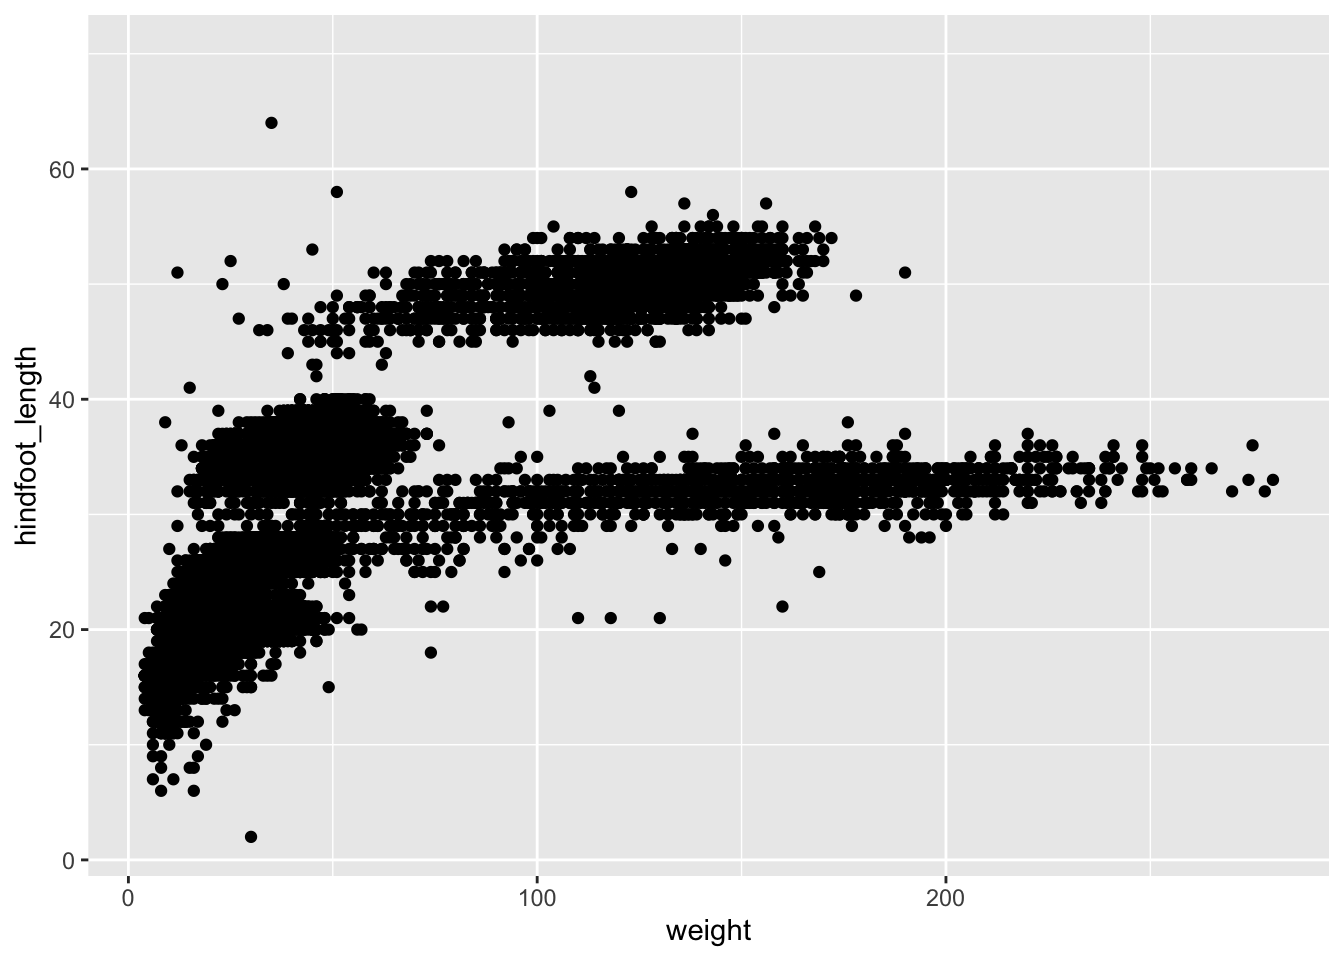
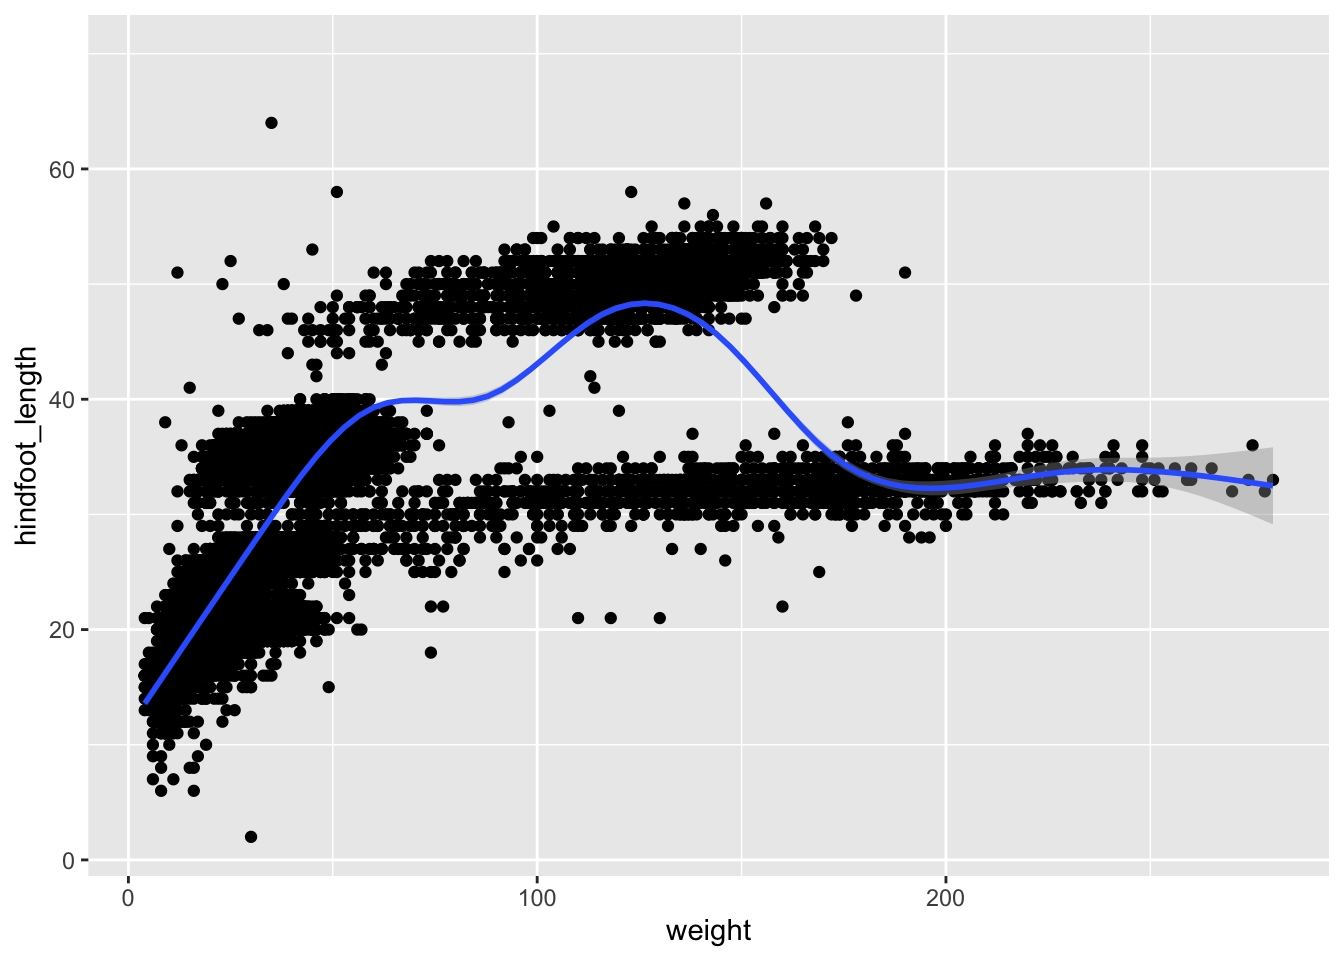
updated visualisation

diff --git a/03-data_visualisation.html b/03-data_visualisation.html
@@ -103,67 +103,41 @@ $(function () {
 
 <style type="text/css">code{white-space: pre;}</style>
 <style type="text/css" data-origin="pandoc">
-a.sourceLine { display: inline-block; line-height: 1.25; }
-a.sourceLine { pointer-events: none; color: inherit; text-decoration: inherit; }
-a.sourceLine:empty { height: 1.2em; }
-.sourceCode { overflow: visible; }
-code.sourceCode { white-space: pre; position: relative; }
-div.sourceCode { margin: 1em 0; }
-pre.sourceCode { margin: 0; }
-@media screen {
-div.sourceCode { overflow: auto; }
-}
-@media print {
-code.sourceCode { white-space: pre-wrap; }
-a.sourceLine { text-indent: -1em; padding-left: 1em; }
-}
-pre.numberSource a.sourceLine
-  { position: relative; left: -4em; }
-pre.numberSource a.sourceLine::before
-  { content: attr(data-line-number);
-    position: relative; left: -1em; text-align: right; vertical-align: baseline;
-    border: none; pointer-events: all; display: inline-block;
-    -webkit-touch-callout: none; -webkit-user-select: none;
-    -khtml-user-select: none; -moz-user-select: none;
-    -ms-user-select: none; user-select: none;
-    padding: 0 4px; width: 4em;
-    color: #aaaaaa;
-  }
-pre.numberSource { margin-left: 3em; border-left: 1px solid #aaaaaa;  padding-left: 4px; }
-div.sourceCode
-  {  }
-@media screen {
-a.sourceLine::before { text-decoration: underline; }
-}
-code span.al { color: #ff0000; font-weight: bold; } /* Alert */
-code span.an { color: #60a0b0; font-weight: bold; font-style: italic; } /* Annotation */
-code span.at { color: #7d9029; } /* Attribute */
-code span.bn { color: #40a070; } /* BaseN */
-code span.bu { } /* BuiltIn */
-code span.cf { color: #007020; font-weight: bold; } /* ControlFlow */
-code span.ch { color: #4070a0; } /* Char */
-code span.cn { color: #880000; } /* Constant */
-code span.co { color: #60a0b0; font-style: italic; } /* Comment */
-code span.cv { color: #60a0b0; font-weight: bold; font-style: italic; } /* CommentVar */
-code span.do { color: #ba2121; font-style: italic; } /* Documentation */
-code span.dt { color: #902000; } /* DataType */
-code span.dv { color: #40a070; } /* DecVal */
-code span.er { color: #ff0000; font-weight: bold; } /* Error */
-code span.ex { } /* Extension */
-code span.fl { color: #40a070; } /* Float */
-code span.fu { color: #06287e; } /* Function */
-code span.im { } /* Import */
-code span.in { color: #60a0b0; font-weight: bold; font-style: italic; } /* Information */
-code span.kw { color: #007020; font-weight: bold; } /* Keyword */
-code span.op { color: #666666; } /* Operator */
-code span.ot { color: #007020; } /* Other */
-code span.pp { color: #bc7a00; } /* Preprocessor */
-code span.sc { color: #4070a0; } /* SpecialChar */
-code span.ss { color: #bb6688; } /* SpecialString */
-code span.st { color: #4070a0; } /* String */
-code span.va { color: #19177c; } /* Variable */
-code span.vs { color: #4070a0; } /* VerbatimString */
-code span.wa { color: #60a0b0; font-weight: bold; font-style: italic; } /* Warning */
+div.sourceCode { overflow-x: auto; }
+table.sourceCode, tr.sourceCode, td.lineNumbers, td.sourceCode {
+  margin: 0; padding: 0; vertical-align: baseline; border: none; }
+table.sourceCode { width: 100%; line-height: 100%; }
+td.lineNumbers { text-align: right; padding-right: 4px; padding-left: 4px; color: #aaaaaa; border-right: 1px solid #aaaaaa; }
+td.sourceCode { padding-left: 5px; }
+code > span.kw { color: #007020; font-weight: bold; } /* Keyword */
+code > span.dt { color: #902000; } /* DataType */
+code > span.dv { color: #40a070; } /* DecVal */
+code > span.bn { color: #40a070; } /* BaseN */
+code > span.fl { color: #40a070; } /* Float */
+code > span.ch { color: #4070a0; } /* Char */
+code > span.st { color: #4070a0; } /* String */
+code > span.co { color: #60a0b0; font-style: italic; } /* Comment */
+code > span.ot { color: #007020; } /* Other */
+code > span.al { color: #ff0000; font-weight: bold; } /* Alert */
+code > span.fu { color: #06287e; } /* Function */
+code > span.er { color: #ff0000; font-weight: bold; } /* Error */
+code > span.wa { color: #60a0b0; font-weight: bold; font-style: italic; } /* Warning */
+code > span.cn { color: #880000; } /* Constant */
+code > span.sc { color: #4070a0; } /* SpecialChar */
+code > span.vs { color: #4070a0; } /* VerbatimString */
+code > span.ss { color: #bb6688; } /* SpecialString */
+code > span.im { } /* Import */
+code > span.va { color: #19177c; } /* Variable */
+code > span.cf { color: #007020; font-weight: bold; } /* ControlFlow */
+code > span.op { color: #666666; } /* Operator */
+code > span.bu { } /* BuiltIn */
+code > span.ex { } /* Extension */
+code > span.pp { color: #bc7a00; } /* Preprocessor */
+code > span.at { color: #7d9029; } /* Attribute */
+code > span.do { color: #ba2121; font-style: italic; } /* Documentation */
+code > span.an { color: #60a0b0; font-weight: bold; font-style: italic; } /* Annotation */
+code > span.cv { color: #60a0b0; font-weight: bold; font-style: italic; } /* CommentVar */
+code > span.in { color: #60a0b0; font-weight: bold; font-style: italic; } /* Information */
 
 </style>
 <script>
@@ -565,7 +539,7 @@ div.tocify {
 <div id="visualising-data-in-r" class="section level1">
 <h1>Visualising data in R</h1>
 <p><img src="img/ggplot2.png" width="50"/></p>
-<p>After inspecting the <code>surveys</code> dataset in R, the data looks tidy and we are happy with its format, so let us start understanding better our data by visualising it. <strong><code>ggplot2</code></strong> is the visualisation package in <code>tidyverse</code> and we will be using this to create some plots. <code>ggplot2</code> is a very popular package used for plotting mainly due to its simple way to create plots from tabular data.</p>
+<p>Visualising is probably one of the most satisfying parts of doing data analysis, after all most people probably like a nice graph! Thankfully tidyverse makes this very easy for us, using the <strong><code>ggplot2</code></strong> package. We will be using this package to create some plots. <code>ggplot2</code> is a very popular package used for plotting mainly due to its simple, modular way to create plots from tabular data.</p>
 <p>To create a plot, we will use the following basic template.</p>
 <pre><code>ggplot(data = &lt;DATA&gt;, mapping = aes(&lt;MAPPINGS&gt;)) +  &lt;GEOM_FUNCTION&gt;()</code></pre>
 <p>As you can see there are 3 main elements that you need to create a plot:</p>
@@ -579,55 +553,53 @@ div.tocify {
 <li><strong>geom_function</strong>: This specifies the type of plot would you like to plot. The greatest advantage of this is that you can easily change the plot type by just changing the geom_function and keeping everything else the same. You can see a whole list of plots that you can plot <a href="https://ggplot2.tidyverse.org/reference/index.html#section-layer-geoms">here</a>.</li>
 </ul>
 <p>Let us practice this on our <code>surveys</code> dataset. We would like to create a scatter plot with <code>weight</code> on the x-axis, <code>hindfoot_length</code> on the y-axis</p>
-<div class="sourceCode" id="cb2"><pre class="sourceCode r"><code class="sourceCode r"><a class="sourceLine" id="cb2-1" data-line-number="1"><span class="kw">ggplot</span>(<span class="dt">data =</span> surveys, <span class="dt">mapping =</span> <span class="kw">aes</span>(<span class="dt">x =</span> weight, <span class="dt">y =</span> hindfoot_length))</a></code></pre></div>
+<div class="sourceCode"><pre class="sourceCode r"><code class="sourceCode r"><span class="kw">ggplot</span>(<span class="dt">data =</span> surveys, <span class="dt">mapping =</span> <span class="kw">aes</span>(<span class="dt">x =</span> weight, <span class="dt">y =</span> hindfoot_length))</code></pre></div>
 <p><img src="img/R-ecology-unnamed-chunk-2-1.png" width="672" /></p>
 <div id="adding-layers" class="section level2">
 <h2>Adding layers</h2>
 <p>As you can see if you just specify the <code>ggplot</code> function with the data and aesthetic mappings, it will just create an empty plot. Let us now add the geom_function for the scatter plot (<code>geom_point</code>) as a layer to the plot: <a name="firstplot"></a></p>
-<div class="sourceCode" id="cb3"><pre class="sourceCode r"><code class="sourceCode r"><a class="sourceLine" id="cb3-1" data-line-number="1"><span class="kw">ggplot</span>(<span class="dt">data =</span> surveys, <span class="dt">mapping =</span> <span class="kw">aes</span>(<span class="dt">x =</span> weight, <span class="dt">y =</span> hindfoot_length)) <span class="op">+</span></a>
-<a class="sourceLine" id="cb3-2" data-line-number="2"><span class="st">  </span><span class="kw">geom_point</span>()</a></code></pre></div>
+<div class="sourceCode"><pre class="sourceCode r"><code class="sourceCode r"><span class="kw">ggplot</span>(<span class="dt">data =</span> surveys, <span class="dt">mapping =</span> <span class="kw">aes</span>(<span class="dt">x =</span> weight, <span class="dt">y =</span> hindfoot_length)) <span class="op">+</span>
+<span class="st">  </span><span class="kw">geom_point</span>()</code></pre></div>
 <p><img src="img/R-ecology-unnamed-chunk-3-1.png" width="672" /></p>
 <p>You can customise some of the visualisations of the plot to extract more information from it. For instance, we can add transparency (<code>alpha</code>) to avoid overplotting:</p>
-<div class="sourceCode" id="cb4"><pre class="sourceCode r"><code class="sourceCode r"><a class="sourceLine" id="cb4-1" data-line-number="1"><span class="kw">ggplot</span>(<span class="dt">data =</span> surveys, <span class="dt">mapping =</span> <span class="kw">aes</span>(<span class="dt">x =</span> weight, <span class="dt">y =</span> hindfoot_length)) <span class="op">+</span></a>
-<a class="sourceLine" id="cb4-2" data-line-number="2"><span class="st">    </span><span class="kw">geom_point</span>(<span class="dt">alpha =</span> <span class="fl">0.1</span>)</a></code></pre></div>
+<div class="sourceCode"><pre class="sourceCode r"><code class="sourceCode r"><span class="kw">ggplot</span>(<span class="dt">data =</span> surveys, <span class="dt">mapping =</span> <span class="kw">aes</span>(<span class="dt">x =</span> weight, <span class="dt">y =</span> hindfoot_length)) <span class="op">+</span>
+<span class="st">    </span><span class="kw">geom_point</span>(<span class="dt">alpha =</span> <span class="fl">0.1</span>)</code></pre></div>
 <p><img src="img/R-ecology-adding-transparency-1.png" width="672" /></p>
 <p>You can find a list of aesthetics for each type of plot in the <a href="https://github.com/rstudio/cheatsheets/blob/master/data-visualization-2.1.pdf">ggplot2 cheat sheet</a>.</p>
 <p>We can also add colours for all the points:</p>
-<div class="sourceCode" id="cb5"><pre class="sourceCode r"><code class="sourceCode r"><a class="sourceLine" id="cb5-1" data-line-number="1"><span class="kw">ggplot</span>(<span class="dt">data =</span> surveys, <span class="dt">mapping =</span> <span class="kw">aes</span>(<span class="dt">x =</span> weight, <span class="dt">y =</span> hindfoot_length)) <span class="op">+</span></a>
-<a class="sourceLine" id="cb5-2" data-line-number="2"><span class="st">    </span><span class="kw">geom_point</span>(<span class="dt">alpha =</span> <span class="fl">0.1</span>, <span class="dt">colour =</span> <span class="st">&quot;blue&quot;</span>)</a></code></pre></div>
+<div class="sourceCode"><pre class="sourceCode r"><code class="sourceCode r"><span class="kw">ggplot</span>(<span class="dt">data =</span> surveys, <span class="dt">mapping =</span> <span class="kw">aes</span>(<span class="dt">x =</span> weight, <span class="dt">y =</span> hindfoot_length)) <span class="op">+</span>
+<span class="st">    </span><span class="kw">geom_point</span>(<span class="dt">alpha =</span> <span class="fl">0.1</span>, <span class="dt">colour =</span> <span class="st">&quot;blue&quot;</span>)</code></pre></div>
 <p><img src="img/R-ecology-adding-colours-1.png" width="672" /></p>
 <p>If we would like to try other type of plots on the data, the best thing is to save the ggplot into a variable as below:</p>
-<div class="sourceCode" id="cb6"><pre class="sourceCode r"><code class="sourceCode r"><a class="sourceLine" id="cb6-1" data-line-number="1"><span class="co"># Assign plot to a variable</span></a>
-<a class="sourceLine" id="cb6-2" data-line-number="2">surveys_plot &lt;-<span class="st"> </span><span class="kw">ggplot</span>(<span class="dt">data =</span> surveys, </a>
-<a class="sourceLine" id="cb6-3" data-line-number="3">                       <span class="dt">mapping =</span> <span class="kw">aes</span>(<span class="dt">x =</span> weight, <span class="dt">y =</span> hindfoot_length))</a>
-<a class="sourceLine" id="cb6-4" data-line-number="4"></a>
-<a class="sourceLine" id="cb6-5" data-line-number="5"><span class="co"># Draw a scatter plot</span></a>
-<a class="sourceLine" id="cb6-6" data-line-number="6">surveys_plot <span class="op">+</span><span class="st"> </span></a>
-<a class="sourceLine" id="cb6-7" data-line-number="7"><span class="st">    </span><span class="kw">geom_point</span>()</a></code></pre></div>
+<div class="sourceCode"><pre class="sourceCode r"><code class="sourceCode r"><span class="co"># Assign plot to a variable</span>
+surveys_plot &lt;-<span class="st"> </span><span class="kw">ggplot</span>(<span class="dt">data =</span> surveys, 
+                       <span class="dt">mapping =</span> <span class="kw">aes</span>(<span class="dt">x =</span> weight, <span class="dt">y =</span> hindfoot_length))
+
+<span class="co"># Draw a scatter plot</span>
+surveys_plot <span class="op">+</span><span class="st"> </span>
+<span class="st">    </span><span class="kw">geom_point</span>()</code></pre></div>
 <p>Now draw a <code>geom_smooth</code> plot. This plot is good when you need to see if there is any pattern between the two variables being plotted that you would not normally see in a scatter plot due to overplotting.</p>
-<div class="sourceCode" id="cb7"><pre class="sourceCode r"><code class="sourceCode r"><a class="sourceLine" id="cb7-1" data-line-number="1">surveys_plot <span class="op">+</span></a>
-<a class="sourceLine" id="cb7-2" data-line-number="2"><span class="st">    </span><span class="kw">geom_smooth</span>()</a></code></pre></div>
+<div class="sourceCode"><pre class="sourceCode r"><code class="sourceCode r">surveys_plot <span class="op">+</span>
+<span class="st">    </span><span class="kw">geom_smooth</span>()</code></pre></div>
 <p><img src="img/R-ecology-unnamed-chunk-5-1.png" width="672" /></p>
 <p>Rather than seeing each plot separately, sometimes plotting multiple plots on top of each other is a better way. You can add multiple plots as layers on top of each other as follows:</p>
-<div class="sourceCode" id="cb8"><pre class="sourceCode r"><code class="sourceCode r"><a class="sourceLine" id="cb8-1" data-line-number="1">surveys_plot <span class="op">+</span></a>
-<a class="sourceLine" id="cb8-2" data-line-number="2"><span class="st">  </span><span class="kw">geom_point</span>() <span class="op">+</span></a>
-<a class="sourceLine" id="cb8-3" data-line-number="3"><span class="st">  </span><span class="kw">geom_smooth</span>()</a></code></pre></div>
+<div class="sourceCode"><pre class="sourceCode r"><code class="sourceCode r">surveys_plot <span class="op">+</span>
+<span class="st">  </span><span class="kw">geom_point</span>() <span class="op">+</span>
+<span class="st">  </span><span class="kw">geom_smooth</span>()</code></pre></div>
 <p><img src="img/R-ecology-unnamed-chunk-6-1.png" width="672" /></p>
-<blockquote>
 <p><strong>Note</strong></p>
 <ul>
 <li>Anything you put in the <code>ggplot()</code> function can be seen by any geom layers that you add (<em>i.e.,</em> these are universal plot settings).</li>
 <li>You can also specify mappings for a given geom independently of the mappings defined globally in the <code>ggplot()</code> function.</li>
 <li>The <code>+</code> sign used to add new layers must be placed at the end of the line containing the <em>previous</em> layer. If, instead, the <code>+</code> sign is added at the beginning of the line containing the new layer, &gt;<strong><code>ggplot2</code></strong> will not add the new layer and will return an error message.</li>
 </ul>
-<div class="sourceCode" id="cb9"><pre class="sourceCode r"><code class="sourceCode r"><a class="sourceLine" id="cb9-1" data-line-number="1"><span class="co"># This is the correct syntax for adding layers</span></a>
-<a class="sourceLine" id="cb9-2" data-line-number="2">surveys_plot <span class="op">+</span></a>
-<a class="sourceLine" id="cb9-3" data-line-number="3"><span class="st"> </span><span class="kw">geom_point</span>()</a>
-<a class="sourceLine" id="cb9-4" data-line-number="4"></a>
-<a class="sourceLine" id="cb9-5" data-line-number="5"><span class="co"># This will not add the new layer and will return an error message</span></a>
-<a class="sourceLine" id="cb9-6" data-line-number="6">surveys_plot </a>
-<a class="sourceLine" id="cb9-7" data-line-number="7"> <span class="op">+</span><span class="st"> </span><span class="kw">geom_point</span>()</a></code></pre></div>
-</blockquote>
+<div class="sourceCode"><pre class="sourceCode r"><code class="sourceCode r"><span class="co"># This is the correct syntax for adding layers</span>
+surveys_plot <span class="op">+</span>
+<span class="st">  </span><span class="kw">geom_point</span>()
+
+<span class="co"># This will not add the new layer and will return an error message</span>
+surveys_plot 
+  <span class="op">+</span><span class="st"> </span><span class="kw">geom_point</span>()</code></pre></div>
 <blockquote>
 <h3 id="challenge">Challenge</h3>
 <p>Scatter plots can be useful exploratory tools for small datasets. For data sets with large numbers of observations, such as the <code>surveys</code> data set, overplotting of points can be a limitation of scatter plots. We have already seen how we can visualise data better when we have overplotting with the <code>geom_smooth</code> plot. Another way for handling overplotting is to display the density of the data through contours. As this challenge’s task create a script called <code>plot_density2d.R</code> which loads the file data_raw/portal_data_joined.csv into the variable <code>surveys</code>. It then uses this dataset to plot the <code>weight</code> on the x-axis and <code>hindfoot_length</code> on the y-axis in a <code>geom_density2d</code> plot.</p>
@@ -636,17 +608,17 @@ div.tocify {
 Answer
 </h3>
 <div style="background: #fff;">
-<div class="sourceCode" id="cb10"><pre class="sourceCode r"><code class="sourceCode r"><a class="sourceLine" id="cb10-1" data-line-number="1"><span class="kw">library</span>(tidyverse)</a>
-<a class="sourceLine" id="cb10-2" data-line-number="2"></a>
-<a class="sourceLine" id="cb10-3" data-line-number="3"><span class="co"># Load the surveys data</span></a>
-<a class="sourceLine" id="cb10-4" data-line-number="4">surveys &lt;-<span class="st"> </span><span class="kw">read_csv</span>(<span class="st">&quot;data_raw/portal_data_joined.csv&quot;</span>)</a>
-<a class="sourceLine" id="cb10-5" data-line-number="5"></a>
-<a class="sourceLine" id="cb10-6" data-line-number="6"><span class="co"># Attach data and map x and y axes</span></a>
-<a class="sourceLine" id="cb10-7" data-line-number="7">surveys_plot &lt;-<span class="st"> </span><span class="kw">ggplot</span>(<span class="dt">data =</span> surveys, </a>
-<a class="sourceLine" id="cb10-8" data-line-number="8">                      <span class="dt">mapping =</span> <span class="kw">aes</span>(<span class="dt">x =</span> weight, <span class="dt">y =</span> hindfoot_length))</a>
-<a class="sourceLine" id="cb10-9" data-line-number="9"><span class="co"># Draw geom_density2d</span></a>
-<a class="sourceLine" id="cb10-10" data-line-number="10">surveys_plot <span class="op">+</span></a>
-<a class="sourceLine" id="cb10-11" data-line-number="11"><span class="kw">geom_density2d</span>()</a></code></pre></div>
+<div class="sourceCode"><pre class="sourceCode r"><code class="sourceCode r"><span class="kw">library</span>(tidyverse)
+
+<span class="co"># Load the surveys data</span>
+surveys &lt;-<span class="st"> </span><span class="kw">read_csv</span>(<span class="st">&quot;data_raw/portal_data_joined.csv&quot;</span>)
+
+<span class="co"># Attach data and map x and y axes</span>
+surveys_plot &lt;-<span class="st"> </span><span class="kw">ggplot</span>(<span class="dt">data =</span> surveys, 
+                      <span class="dt">mapping =</span> <span class="kw">aes</span>(<span class="dt">x =</span> weight, <span class="dt">y =</span> hindfoot_length))
+<span class="co"># Draw geom_density2d</span>
+surveys_plot <span class="op">+</span>
+<span class="kw">geom_density2d</span>()</code></pre></div>
 </div>
 </div>
 </blockquote>
@@ -654,17 +626,17 @@ Answer
 <div id="saveplot" class="section level2">
 <h2>Saving a plot to a file</h2>
 <p>To save a plot to file use the <code>ggsave</code> function. If you look at the <a href="https://ggplot2.tidyverse.org/reference/ggsave.html">documentation of ggsave</a> you can see the different arguments the ggsave function takes. Let us save the plot present in the surveys_plot variable into a file called <code>plot_weight_hindfoot_density2d.png</code> into a folder in this project called <code>img_output</code>.</p>
-<div class="sourceCode" id="cb11"><pre class="sourceCode r"><code class="sourceCode r"><a class="sourceLine" id="cb11-1" data-line-number="1"><span class="co">#save plot that you would like to save into a variable</span></a>
-<a class="sourceLine" id="cb11-2" data-line-number="2">out_plot &lt;-<span class="st"> </span>surveys_plot <span class="op">+</span><span class="st"> </span><span class="kw">geom_density2d</span>()</a>
-<a class="sourceLine" id="cb11-3" data-line-number="3"><span class="co">#save plot to file</span></a>
-<a class="sourceLine" id="cb11-4" data-line-number="4"><span class="kw">ggsave</span>(<span class="dt">filename=</span><span class="st">&quot;img_output/plot_weight_hindfoot_density2d.png&quot;</span>, <span class="dt">plot =</span> out_plot)</a></code></pre></div>
+<div class="sourceCode"><pre class="sourceCode r"><code class="sourceCode r"><span class="co">#save plot that you would like to save into a variable</span>
+out_plot &lt;-<span class="st"> </span>surveys_plot <span class="op">+</span><span class="st"> </span><span class="kw">geom_density2d</span>()
+<span class="co">#save plot to file</span>
+<span class="kw">ggsave</span>(<span class="dt">filename=</span><span class="st">&quot;img_output/plot_weight_hindfoot_density2d.png&quot;</span>, <span class="dt">plot =</span> out_plot)</code></pre></div>
 <blockquote>
 <p><strong>Note</strong></p>
 <ul>
 <li>You do not need to save the plot into a variable before saving it to file. If you do not specify the <code>plot</code> argument of the <code>ggsave</code> function, <code>ggsave</code> will take the last plot that you plotted and save it into the <code>filename</code> specified.</li>
 </ul>
-<div class="sourceCode" id="cb12"><pre class="sourceCode r"><code class="sourceCode r"><a class="sourceLine" id="cb12-1" data-line-number="1"><span class="co"># Save plot to file</span></a>
-<a class="sourceLine" id="cb12-2" data-line-number="2"><span class="kw">ggsave</span>(<span class="dt">filename =</span> <span class="st">&quot;img_output/plot_weight_hindfoot_density2d.png&quot;</span>)</a></code></pre></div>
+<div class="sourceCode"><pre class="sourceCode r"><code class="sourceCode r"><span class="co"># Save plot to file</span>
+<span class="kw">ggsave</span>(<span class="dt">filename =</span> <span class="st">&quot;img_output/plot_weight_hindfoot_density2d.png&quot;</span>)</code></pre></div>
 <ul>
 <li>You can create folders straight from RStudio from the right bottom pane in the Files section &gt; New Folder icon.</li>
 </ul>
